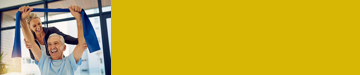
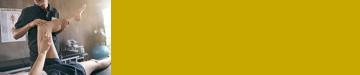
Fyzio & Orto bg color adjusments + nav colors

Changed region(s): [[0.0, 0.0, 0.3056, 1.0]]

diff --git a/src/components/Fees.css b/src/components/Fees.css
@@ -10,29 +10,14 @@
     height: 100%;
 }
 
-.co-fees-container__button {
-    margin-top: 10px;
-    width: 310px;
-    height: 70px;
-    background-color: #fff;
-    border-radius: 25px;
-    padding: 15px 32px;
-    text-align: center;
-    text-decoration: none;
-    display: inline-block;
-    font-size: 32px;
-    font-family: 'AvenirBold';
-    color: #088789;
-}
-
 .co-fees-container__table{
-    margin-top: 40px;
     width: 1280px;
 }
 
 #fees_table {
     border-collapse: collapse;
     width: 100%;
+    font-size: 16px;
 }
 
 #fees_table td, #fees_table th {

diff --git a/src/components/Shared.css b/src/components/Shared.css
@@ -24,12 +24,14 @@ html, body {
 
 .co-orthopedic-container,
 .co-component-menu-item__title-wrapper-orthopedic {
-    background-color: #6DBE4B;
+    /* background-color: #6DBE4B; */
+    background-color: #31A102;
 }
 
 .co-fyzio-container,
 .co-component-menu-item__title-wrapper-fyzio  {
-    background-color: #E1BE00;
+    /* background-color: #E1BE00; */
+    background-color: #C7A800;
 }
 
 .co-rehab-container,

diff --git a/src/components/Nav.css b/src/components/Nav.css
@@ -54,11 +54,11 @@
 }
 
 .co-navigation-item__bg-nav-2 {
-    background-image: url("../assets/nav/nav-22.png");
+    background-image: url("../assets/nav/nav-2.png");
 }
 
 .co-navigation-item__bg-nav-3 {
-    background-image: url("../assets/nav/nav-33.png");
+    background-image: url("../assets/nav/nav-3.png");
 }
 
 .co-navigation-item__bg-nav-4 {
